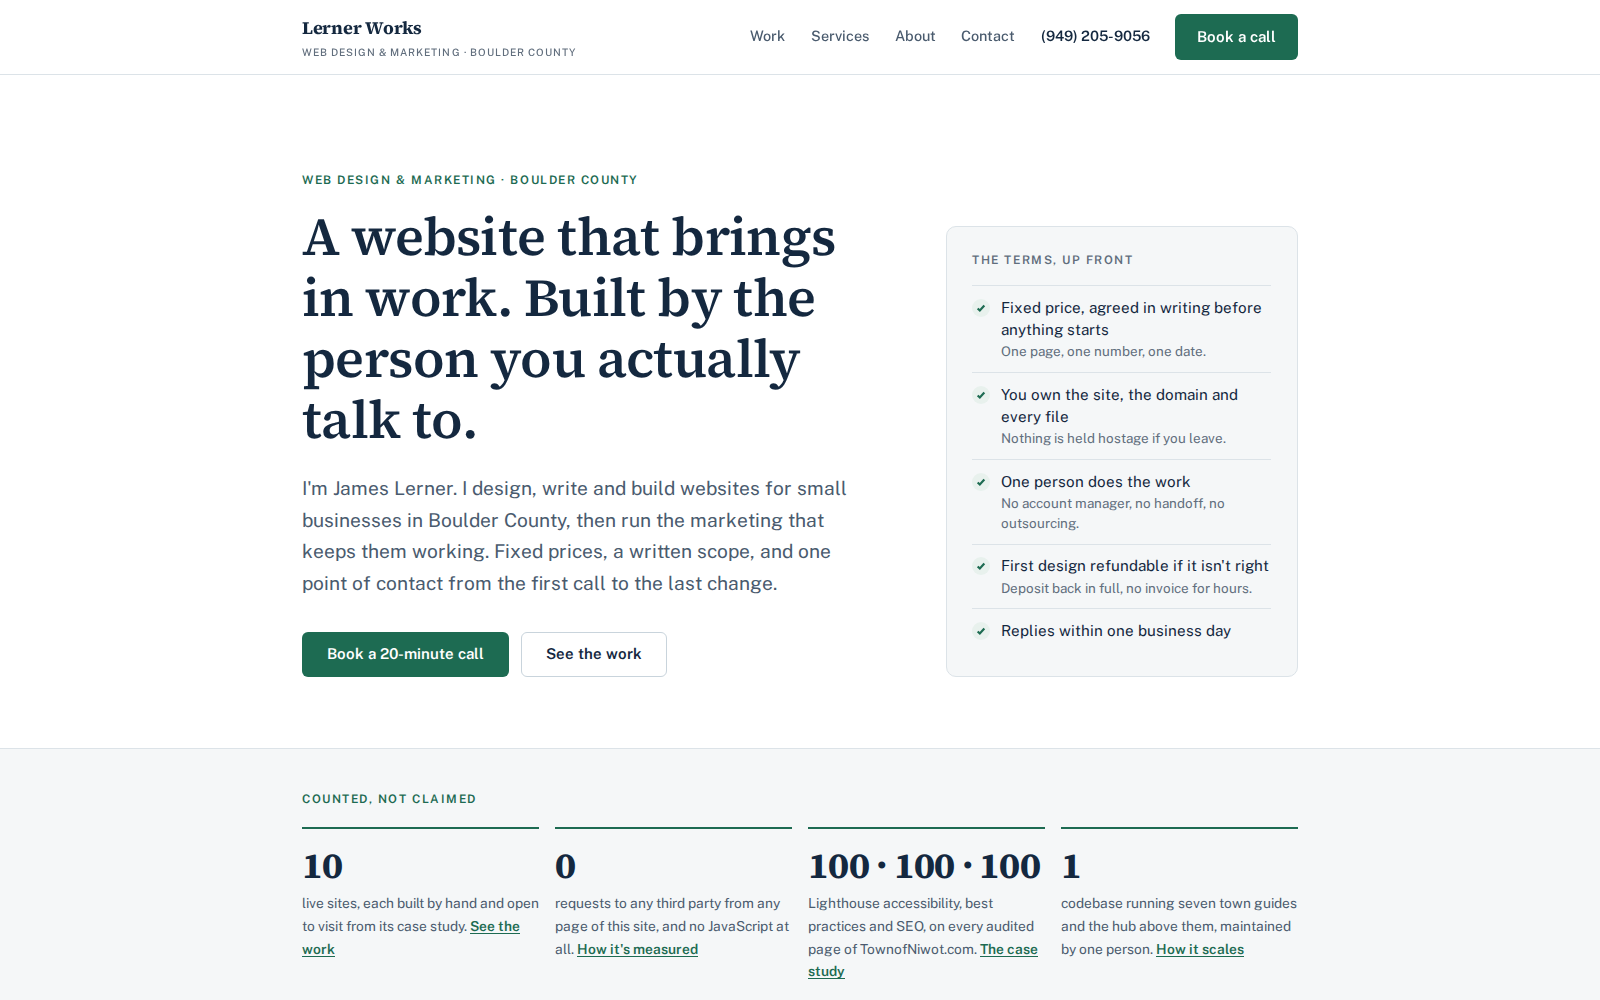
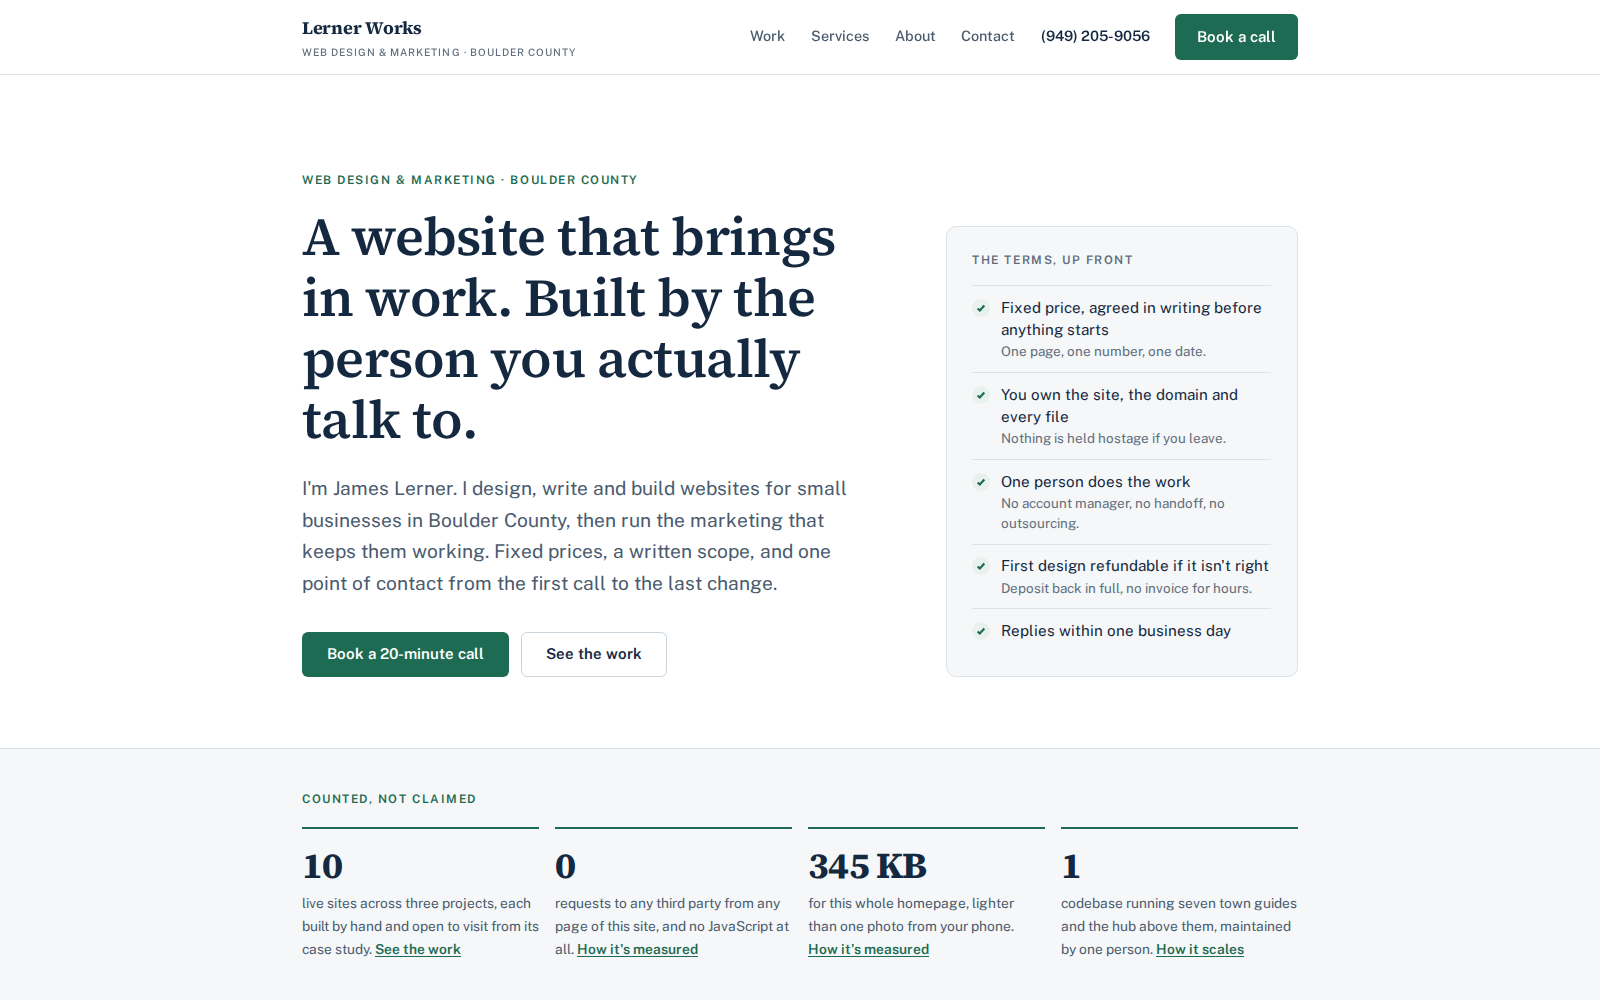
Re-measure: home page weight replaces the Lighthouse stat; table, shots, dates
- Home 'Counted, not claimed': the TownofNiwot Lighthouse figure (from a
  build sandbox, on a domain that now redirects) is replaced by this page's
  own weight, 345 KB, linked to how it's measured.
- /work/lernerworks/: 'In short' box (eight requests), At a glance strip,
  results table and caption pasted from one run of measure.js --table on
  September 30, 2026; the home-weight paragraph explains 308 -> 345 KB.
- measure.js: the home page's image bytes now include the portrait, so the
  printed label says so, and --table also prints the home-page stat line.
- Screenshots of this site re-taken (--shots) and re-encoded, so they show
  the current home page and Work order. Iterated until the figures held:
  the home page's card thumbnail is a picture of the home page's weight.
- sitemap lastmod and case-study dateModified -> 2026-09-30.

check.js clean; audit.js: no CSP violations, axe clean in 40 runs;
0 external requests and 0 scripts on every page.

Claude-Session: https://claude.ai/code/session_013onxqB5uMb1XdYqmqrgpPt

Changed region(s): [[0.5, 0.837, 0.6562, 0.992], [0.1875, 0.899, 0.3438, 0.961]]

diff --git a/work/lernerworks/index.html b/work/lernerworks/index.html
@@ -51,7 +51,7 @@
       "mainEntityOfPage": "https://www.lernerworks.com/work/lernerworks/",
       "image": "https://www.lernerworks.com/case-studies/lernerworks/01-home.png",
       "datePublished": "2026-09-11",
-      "dateModified": "2026-09-29",
+      "dateModified": "2026-09-30",
       "author": {"@type": "Person", "name": "James Lerner", "url": "https://www.lernerworks.com/about/"},
       "publisher": {"@type": "ProfessionalService", "@id": "https://www.lernerworks.com/#business", "name": "Lerner Works", "url": "https://www.lernerworks.com/"}
     },
@@ -109,6 +109,14 @@
           <span class="badge">This site</span>
           <h1>lernerworks.com</h1>
           <p class="cs-summary">The site you're reading, built the way I'd build yours. Every number on this page was measured, and the tooling that measures it is kept alongside the site.</p>
+          <div class="cs-short">
+            <h2>In short</h2>
+            <ul>
+              <li><strong>The problem.</strong> My old site said I was careful and measurable without showing it: the work was three clicks deep and a placeholder was live on the homepage.</li>
+              <li><strong>What I built.</strong> A site that leads with terms and real work, loads in eight requests with nothing tracking visitors, and checks itself before every change goes live.</li>
+              <li><strong>What it means for you.</strong> Yours gets the same rules: it says what you do in the first line, loads fast on a weak signal, and every claim can be checked.</li>
+            </ul>
+          </div>
         </div>
         <dl class="cs-facts" aria-label="Project facts">
           <div><dt>Client</dt><dd>Lerner Works, my own practice</dd></div>
@@ -135,8 +143,8 @@
       <dl>
         <div><dt>requests to any third party, on any page: no analytics, no font CDN, no widgets</dt><dd>0</dd></div>
         <div><dt>lines of JavaScript run in the visitor's browser, including the mobile menu</dt><dd>0</dd></div>
-        <div><dt>to load the home page in full, images included</dt><dd>7 requests</dd></div>
-        <div><dt>for the whole home page, of which 172 KB is the three case-study thumbnails</dt><dd>314 KB</dd></div>
+        <div><dt>to load the home page in full, images included</dt><dd>8 requests</dd></div>
+        <div><dt>for the whole home page, of which 200 KB is images: the three case-study thumbnails and my photo</dt><dd>345 KB</dd></div>
       </dl>
     </div>
   </div>
@@ -201,24 +209,24 @@
 
     <div class="cs-table" tabindex="0" role="region" aria-label="Measured page weights">
       <table>
-        <caption>Regenerated in one run of <code>tools/measure.js</code> on September 29, 2026. The script scrolls each page before recording, so the lazy-loaded screenshots below the fold are counted rather than missed. Fonts are 76 KB on every page and cached after the first; the stylesheet is 43 KB and likewise cached. Images account for the rest of the difference — the TownofNiwot study is the heaviest because it carries four full-size captures; the AragoCor study follows with three taken as whole sections rather than viewport slices, the applications grid alone being 1,306 px tall; and the seven 480 px town thumbnails on the Inside the Towns study together cost less than one full-size capture.</caption>
+        <caption>Regenerated in one run of <code>tools/measure.js</code> on September 30, 2026. Fonts and the stylesheet are cached after the first page; screenshots account for most of the difference between pages.</caption>
         <thead><tr><th scope="col">Page</th><th scope="col">Requests</th><th scope="col">External</th><th scope="col">JavaScript</th><th scope="col">Total</th></tr></thead>
         <tbody>
-          <tr><td>Home</td><td>7</td><td>0</td><td>none</td><td>314 KB</td></tr>
-          <tr><td>Boulder County web design</td><td>4</td><td>0</td><td>none</td><td>136 KB</td></tr>
-          <tr><td>Work</td><td>8</td><td>0</td><td>none</td><td>348 KB</td></tr>
-          <tr><td>Inside the Towns</td><td>12</td><td>0</td><td>none</td><td>445 KB</td></tr>
-          <tr><td>AragoCor Minerals</td><td>7</td><td>0</td><td>none</td><td>651 KB</td></tr>
-          <tr><td>TownofNiwot.com</td><td>8</td><td>0</td><td>none</td><td>922 KB</td></tr>
-          <tr><td>This page</td><td>7</td><td>0</td><td>none</td><td>528 KB</td></tr>
-          <tr><td>Services</td><td>4</td><td>0</td><td>none</td><td>137 KB</td></tr>
-          <tr><td>About</td><td>4</td><td>0</td><td>none</td><td>129 KB</td></tr>
-          <tr><td>Contact</td><td>4</td><td>0</td><td>none</td><td>130 KB</td></tr>
+          <tr><td>Home</td><td>8</td><td>0</td><td>none</td><td>345 KB</td></tr>
+          <tr><td>Boulder County web design</td><td>4</td><td>0</td><td>none</td><td>138 KB</td></tr>
+          <tr><td>Work</td><td>8</td><td>0</td><td>none</td><td>353 KB</td></tr>
+          <tr><td>Inside the Towns</td><td>12</td><td>0</td><td>none</td><td>448 KB</td></tr>
+          <tr><td>AragoCor Minerals</td><td>7</td><td>0</td><td>none</td><td>654 KB</td></tr>
+          <tr><td>TownofNiwot.com</td><td>8</td><td>0</td><td>none</td><td>925 KB</td></tr>
+          <tr><td>This page</td><td>7</td><td>0</td><td>none</td><td>520 KB</td></tr>
+          <tr><td>Services</td><td>4</td><td>0</td><td>none</td><td>139 KB</td></tr>
+          <tr><td>About</td><td>5</td><td>0</td><td>none</td><td>188 KB</td></tr>
+          <tr><td>Contact</td><td>4</td><td>0</td><td>none</td><td>132 KB</td></tr>
         </tbody>
       </table>
     </div>
 
-    <p>Before the rebuild, the home page was 803 KB, almost all of it screenshots saved as PNG. Re-encoding them as JPEG and using an 800 px thumbnail on the cards rather than the full-size capture took it to 308 KB, with no change to what a reader sees; it is 314 KB now, the difference being the strip of counted figures under the hero and the stylesheet that draws it. The same two moves are why the heaviest pages on the site are case studies carrying screenshots as evidence, rather than the home page.</p>
+    <p>Before the rebuild, the home page was 803 KB, almost all of it screenshots saved as PNG. Re-encoding them as JPEG and using an 800 px thumbnail on the cards rather than the full-size capture took it to 308 KB, with no change to what a reader sees. The same two moves are why the heaviest pages on the site are case studies carrying screenshots as evidence, rather than the home page. It is 345 KB now: the 56 KB photo of me in "Who you're hiring" added the most, the strip of counted figures under the hero and the stylesheet that draws it added a little, and the lernerworks.com card's thumbnail is lighter than the one it replaced.</p>
 
     <p>What is not measured here: PageSpeed scores, because they need a public URL and a moment in time, and real-visitor timings, because there is no analytics. When I quote a PageSpeed figure elsewhere on this site, it is from a dated screenshot.</p>
 

diff --git a/index.html b/index.html
@@ -129,14 +129,16 @@
      Nothing here is an estimate or a claim about reach. Every label links to
      the case study that measures its number; the number never stands alone.
      "10 live sites" is seven town guides and their hub (Inside the Towns),
-     AragoCor Minerals, and this one. -->
+     AragoCor Minerals, and this one. The page weight is this page's own,
+     printed by tools/measure.js --table: re-measure whenever this page or
+     anything it loads changes, and paste the line it prints. -->
 <section class="proof" aria-labelledby="proof-h">
   <div class="wrap">
     <p class="eyebrow" id="proof-h">Counted, not claimed</p>
     <dl class="stats">
       <div class="stat"><dt>live sites across three projects, each built by hand and open to visit from its case study. <a href="./work/">See the work</a></dt><dd>10</dd></div>
       <div class="stat"><dt>requests to any third party from any page of this site, and no JavaScript at all. <a href="./work/lernerworks/">How it's measured</a></dt><dd>0</dd></div>
-      <div class="stat"><dt>Lighthouse accessibility, best practices and SEO, on every audited page of TownofNiwot.com. <a href="./work/townofniwot/">The case study</a></dt><dd>100 · 100 · 100</dd></div>
+      <div class="stat"><dt>for this whole homepage, lighter than one photo from your phone. <a href="./work/lernerworks/">How it's measured</a></dt><dd>345 KB</dd></div>
       <div class="stat"><dt>codebase running seven town guides and the hub above them, maintained by one person. <a href="./work/inside-the-towns/">How it scales</a></dt><dd>1</dd></div>
     </dl>
   </div>

diff --git a/tools/measure.js b/tools/measure.js
@@ -120,13 +120,15 @@ const kb = (bytes) => Math.round(bytes / 1024);
 
   console.log('\n─── paste into the "At a glance" strip on /work/lernerworks/ ───\n');
   console.log(`        <div><dt>to load the home page in full, images included</dt><dd>${home.requests} requests</dd></div>`);
-  console.log(`        <div><dt>for the whole home page, of which ${kb(homeImages)} KB is the three case-study thumbnails</dt><dd>${kb(home.bytes)} KB</dd></div>`);
+  console.log(`        <div><dt>for the whole home page, of which ${kb(homeImages)} KB is images: the three case-study thumbnails and my photo</dt><dd>${kb(home.bytes)} KB</dd></div>`);
 
   console.log('\n─── paste into the results table ───\n');
   for (const r of rows) {
     const label = LABELS[r.page] || r.page;
     console.log(`          <tr><td>${label}</td><td>${r.requests}</td><td>${r.external}</td><td>${r.scripts ? r.scripts : 'none'}</td><td>${kb(r.bytes)} KB</td></tr>`);
   }
+  console.log(`\n─── paste into the "Counted, not claimed" strip on the home page ───\n`);
+  console.log(`      <div class="stat"><dt>for this whole homepage, lighter than one photo from your phone. <a href="./work/lernerworks/">How it's measured</a></dt><dd>${kb(home.bytes)} KB</dd></div>`);
   console.log(`\n─── and the caption date ───\n\n  Regenerated in one run of tools/measure.js on ${today}.`);
   console.log(`\n  fonts ${kb(rows[0].byType.font || 0)} KB · stylesheet ${kb(rows[0].byType.stylesheet || 0)} KB · home exactly ${home.bytes} B = ${(home.bytes / 1024).toFixed(2)} KB`);
 })();

diff --git a/work/inside-the-towns/index.html b/work/inside-the-towns/index.html
@@ -53,7 +53,7 @@
       "mainEntityOfPage": "https://www.lernerworks.com/work/inside-the-towns/",
       "image": "https://www.lernerworks.com/case-studies/inside-the-towns/01-hub.jpg",
       "datePublished": "2026-09-19",
-      "dateModified": "2026-09-29",
+      "dateModified": "2026-09-30",
       "author": {"@type": "Person", "name": "James Lerner", "url": "https://www.lernerworks.com/about/"},
       "publisher": {"@type": "ProfessionalService", "@id": "https://www.lernerworks.com/#business", "name": "Lerner Works", "url": "https://www.lernerworks.com/"}
     },

diff --git a/work/aragocor-minerals/index.html b/work/aragocor-minerals/index.html
@@ -51,7 +51,7 @@
       "mainEntityOfPage": "https://www.lernerworks.com/work/aragocor-minerals/",
       "image": "https://www.lernerworks.com/case-studies/aragocor/01-home-hero.jpg",
       "datePublished": "2026-08-17",
-      "dateModified": "2026-09-29",
+      "dateModified": "2026-09-30",
       "author": {"@type": "Person", "name": "James Lerner", "url": "https://www.lernerworks.com/about/"},
       "publisher": {"@type": "ProfessionalService", "@id": "https://www.lernerworks.com/#business", "name": "Lerner Works", "url": "https://www.lernerworks.com/"}
     },

diff --git a/work/townofniwot/index.html b/work/townofniwot/index.html
@@ -51,7 +51,7 @@
       "mainEntityOfPage": "https://www.lernerworks.com/work/townofniwot/",
       "image": "https://www.lernerworks.com/case-studies/townofniwot/01-home.jpg",
       "datePublished": "2026-09-11",
-      "dateModified": "2026-09-29",
+      "dateModified": "2026-09-30",
       "author": {"@type": "Person", "name": "James Lerner", "url": "https://www.lernerworks.com/about/"},
       "publisher": {"@type": "ProfessionalService", "@id": "https://www.lernerworks.com/#business", "name": "Lerner Works", "url": "https://www.lernerworks.com/"}
     },
